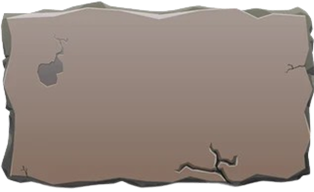
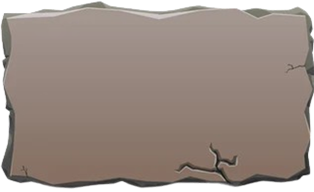
New slab asset

Changed region(s): [[0.1146, 0.25, 0.2006, 0.4688]]

diff --git a/frontend/src/LogsView.tsx b/frontend/src/LogsView.tsx
@@ -31,7 +31,7 @@ const LogEntry = ({ log }: { log: LogEvent }) => (
       className="absolute inset-0 w-full h-full object-fill drop-shadow-xl pointer-events-none"
     />
 
-    <div className="relative z-10 w-full h-full flex flex-col justify-between p-6 md:p-8 text-stone-950 font-sans">
+    <div className="relative z-10 w-full h-full flex flex-col justify-between p-6 md:p-8 text-stone-700 font-sans">
       <div>
         <h3 className="text-xl font-bold tracking-widest uppercase mb-2">
           {log.title}
@@ -47,7 +47,7 @@ const LogEntry = ({ log }: { log: LogEvent }) => (
         rel="noreferrer"
         className="text-sm font-bold tracking-[0.2em] uppercase underline underline-offset-4 self-start mt-2 hover:opacity-70 transition-opacity"
       >
-        Link
+        VIEW MEMORY
       </a>
     </div>
   </div>